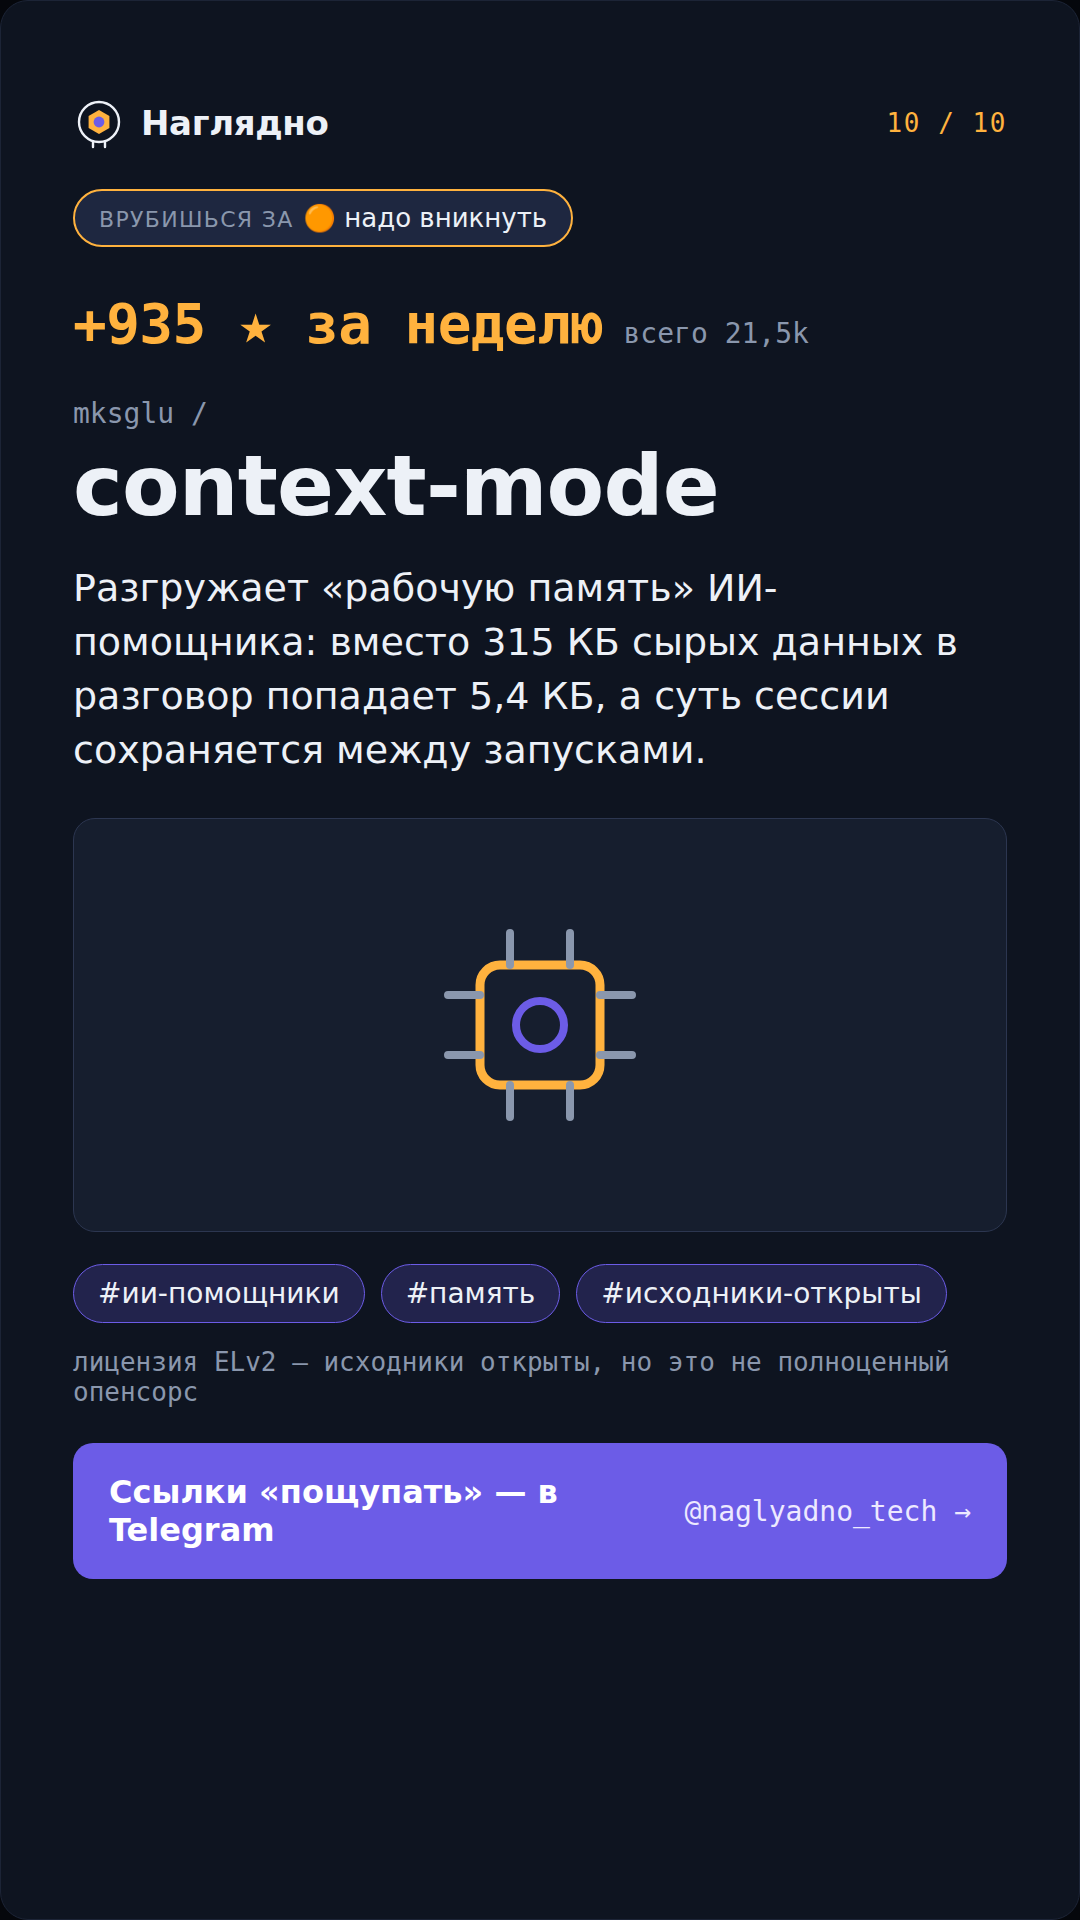
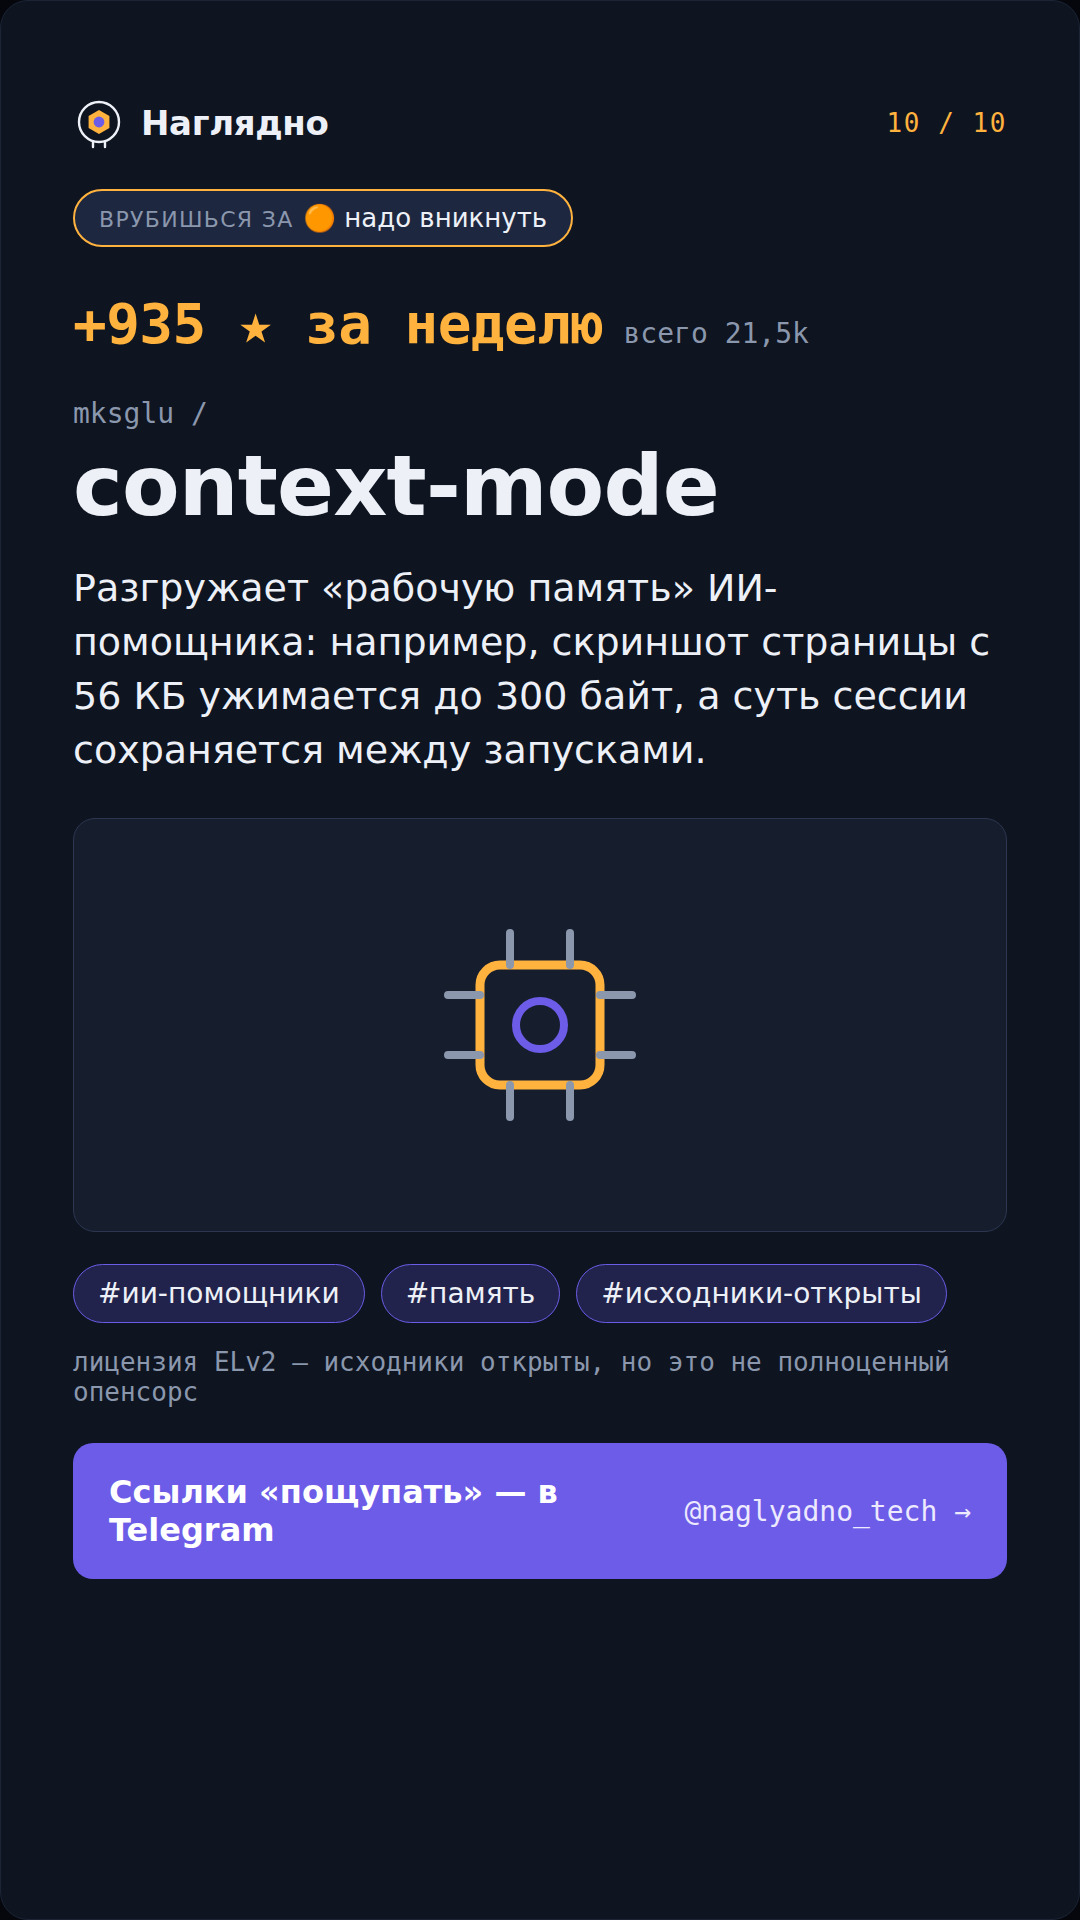
Уточнить описания карточек: агентские навыки и платный DataForSEO
archify и humanizer работают только внутри Claude Code / Cursor /
Codex — на карточках это теперь сказано прямо. У open-seo убрано
слово «бесплатная»: нужен платный ключ DataForSEO. У context-mode
цифра заменена на сверенную по BENCHMARK.md (56 КБ → 299 байт).
С обложки убрано «всё это бесплатно» — оно противоречило правкам.

Claude-Session: https://claude.ai/code/session_01DzVTpoES8dbpXif4hazhAx

Changed region(s): [[0.0611, 0.3125, 0.8861, 0.375]]

diff --git a/cards/trending-repos.html b/cards/trending-repos.html
@@ -49,7 +49,7 @@ h1.long{font-size:64px}
 .desc{margin-top:32px;font-size:38px;line-height:1.42}
 .desc i{font-style:normal;color:var(--text-muted)}
 
-.visual{margin-top:40px;flex:1;min-height:360px;display:flex;flex-direction:column}
+.visual{margin-top:40px;flex:1;min-height:320px;display:flex;flex-direction:column}
 .shot{flex:1;border-radius:22px;overflow:hidden;background:var(--surface);border:1px solid #2c3650}
 .shot img{width:100%;height:100%;object-fit:cover;object-position:top center;display:block}
 .shot.light{background:#fff}
@@ -146,7 +146,7 @@ const CARDS = [
     owner: 'tt-a1i', repo: 'archify',
     delta: '+13,3k ★ за неделю', total: 'всего 55,1k',
     clarity: ['🟡', '15 сек'],
-    desc: 'Описываешь систему словами — получаешь готовую схему: архитектура, потоки данных, порядок шагов. Самый резкий рост недели среди новичков.',
+    desc: 'Описываешь систему словами — получаешь готовую схему: архитектура, потоки данных, порядок шагов. Работает как навык внутри Claude Code, Cursor или Codex — сам по себе не запустится, нужен один из этих ИИ-агентов.',
     shot: 'shots/archify.png',
     tags: ['#схемы', '#документация', '#открытый-код'],
     repoline: 'github.com/tt-a1i/archify · лицензия MIT',
@@ -164,7 +164,7 @@ const CARDS = [
     owner: 'blader', repo: 'humanizer',
     delta: '+5,8k ★ за неделю', total: 'всего 45,6k',
     clarity: ['🟢', '3 сек'],
-    desc: 'Убирает из текста следы «написано нейросетью» — канцелярит, штампы, лишние обороты. Отдаёшь текст, получаешь версию, которая читается по-человечески.',
+    desc: 'Убирает из текста следы «написано нейросетью» — канцелярит, штампы, лишние обороты. Тоже навык для Claude Code / Codex / Cursor, а не отдельная программа или сайт.',
     icon: 'pen',
     tags: ['#текст', '#письмо', '#открытый-код'],
     repoline: 'github.com/blader/humanizer · лицензия MIT',
@@ -173,7 +173,7 @@ const CARDS = [
     owner: 'every-app', repo: 'open-seo',
     delta: '+1,85k ★ за неделю', total: 'всего 18k',
     clarity: ['🟡', '15 сек'],
-    desc: 'Бесплатная замена платным сервисам продвижения сайтов вроде Semrush и Ahrefs: трафик, запросы, позиции конкурентов — без подписки за десятки долларов в месяц.',
+    desc: 'Открытая альтернатива Semrush и Ahrefs: трафик, запросы, позиции конкурентов. Без абонплаты — но не совсем бесплатно: нужен платный API-ключ DataForSEO, платишь по факту запросов, а не 20 000 ₽/мес подписки.',
     shot: 'shots/open-seo.png',
     tags: ['#продвижение', '#бизнес', '#открытый-код'],
     repoline: 'github.com/every-app/open-seo · лицензия MIT',
@@ -200,7 +200,7 @@ const CARDS = [
     owner: 'mksglu', repo: 'context-mode',
     delta: '+935 ★ за неделю', total: 'всего 21,5k',
     clarity: ['🟠', 'надо вникнуть'],
-    desc: 'Разгружает «рабочую память» ИИ-помощника: вместо 315 КБ сырых данных в разговор попадает 5,4 КБ, а суть сессии сохраняется между запусками.',
+    desc: 'Разгружает «рабочую память» ИИ-помощника: например, скриншот страницы с 56 КБ ужимается до 300 байт, а суть сессии сохраняется между запусками.',
     icon: 'chip',
     tags: ['#ии-помощники', '#память', '#исходники-открыты'],
     repoline: 'лицензия ELv2 — исходники открыты, но это не полноценный опенсорс',
@@ -259,7 +259,7 @@ const COVER = `<div class="card cover">
   </div>
   <h2>которые взлетели на GitHub за неделю</h2>
   <p class="sub">От <b>+935</b> до <b>+13 300</b> звёзд за семь дней. Спутник-шпион в браузере,
-     запись экрана, предсказатель будущего — и всё это бесплатно.</p>
+     запись экрана, предсказатель будущего — и ещё семь находок.</p>
   <div class="grid">
     <div><img src="shots/gods-eye-view.png" alt=""></div>
     <div><img src="shots/archify.png" alt=""></div>
